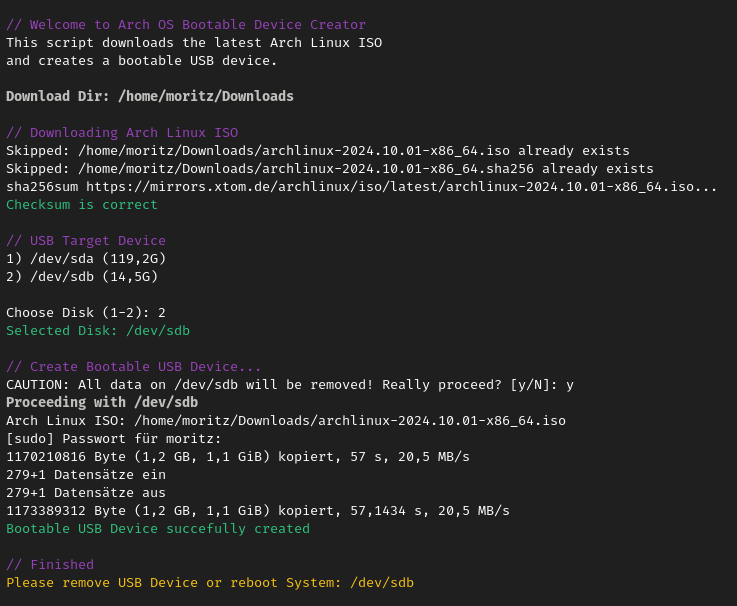
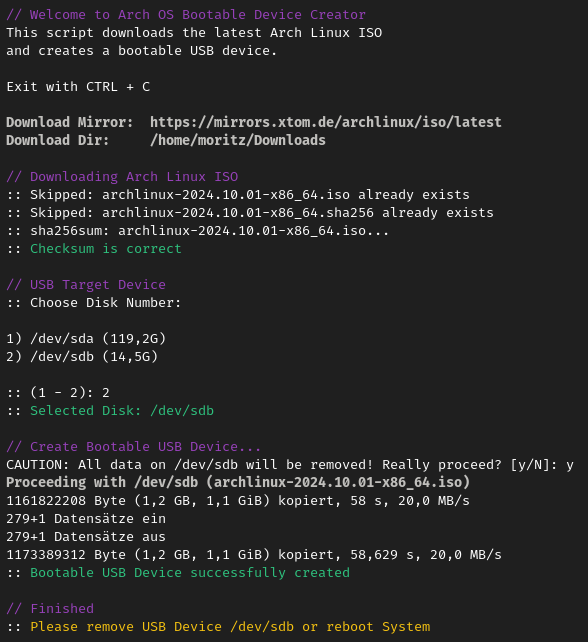
cleanup

diff --git a/docs/README.md b/docs/README.md
@@ -1,6 +1,6 @@
 # Arch OS Bootable Device Creator
 
-**[ ➜ One-line POSIX Executable](#run-arch-os-iso-creator)**
+**[ ➜ Run One-line POSIX Executable](#create-bootable-usb-device)**
 <br><sub></sub>
 
 <div align="center">
@@ -13,28 +13,27 @@
   <p><sub>powered by <a href="https://github.com/murkl/arch-os">Arch OS</a></sub></p>
 </div>
 
-## Run Bootable Device Creator
+## Create Bootable USB Device
 
-This POSIX script downloads the latest [Arch Linux ISO](https://archlinux.org/download/) and creates a bootable USB device.
+This POSIX script downloads the latest official [Arch Linux ISO](https://archlinux.org/download/) and creates a bootable USB device on Linux.
 
 ```
 curl -Ls https://raw.githubusercontent.com/murkl/arch-os-creator/refs/heads/main/creator.sh | bash
 ```
 
-Minimal Auto-Installer: Boot from new created USB Device and install **[ ➜ Arch OS](https://github.com/murkl/arch-os)**
+Afterwards install: **[ ➜ Arch OS](https://github.com/murkl/arch-os)**
 
-## Dependencies
-
-```
-sh curl lsblk sha256sum
-```
-
-## Override Variables
+### Dependencies
 
 ```
-ARCH_ISO_DOWNLOAD_DIR="~/Downloads"
-ARCH_ISO_DOWNLOAD_URL="https://mirrors.xtom.de/archlinux/iso/latest"
+sh curl lsblk sha256sum dd grep
+```
 
-# Example
-ARCH_ISO_DOWNLOAD_DIR="/tmp" ./creator.sh
+### Environment Variables
+
+The default variables can be overwritten with `export`. The script checks whether the variables are already set at startup.
+
+```
+export ARCH_ISO_DOWNLOAD_DIR="~/Downloads"
+export ARCH_ISO_DOWNLOAD_MIRROR="https://mirrors.xtom.de/archlinux/iso/latest"
 ```
